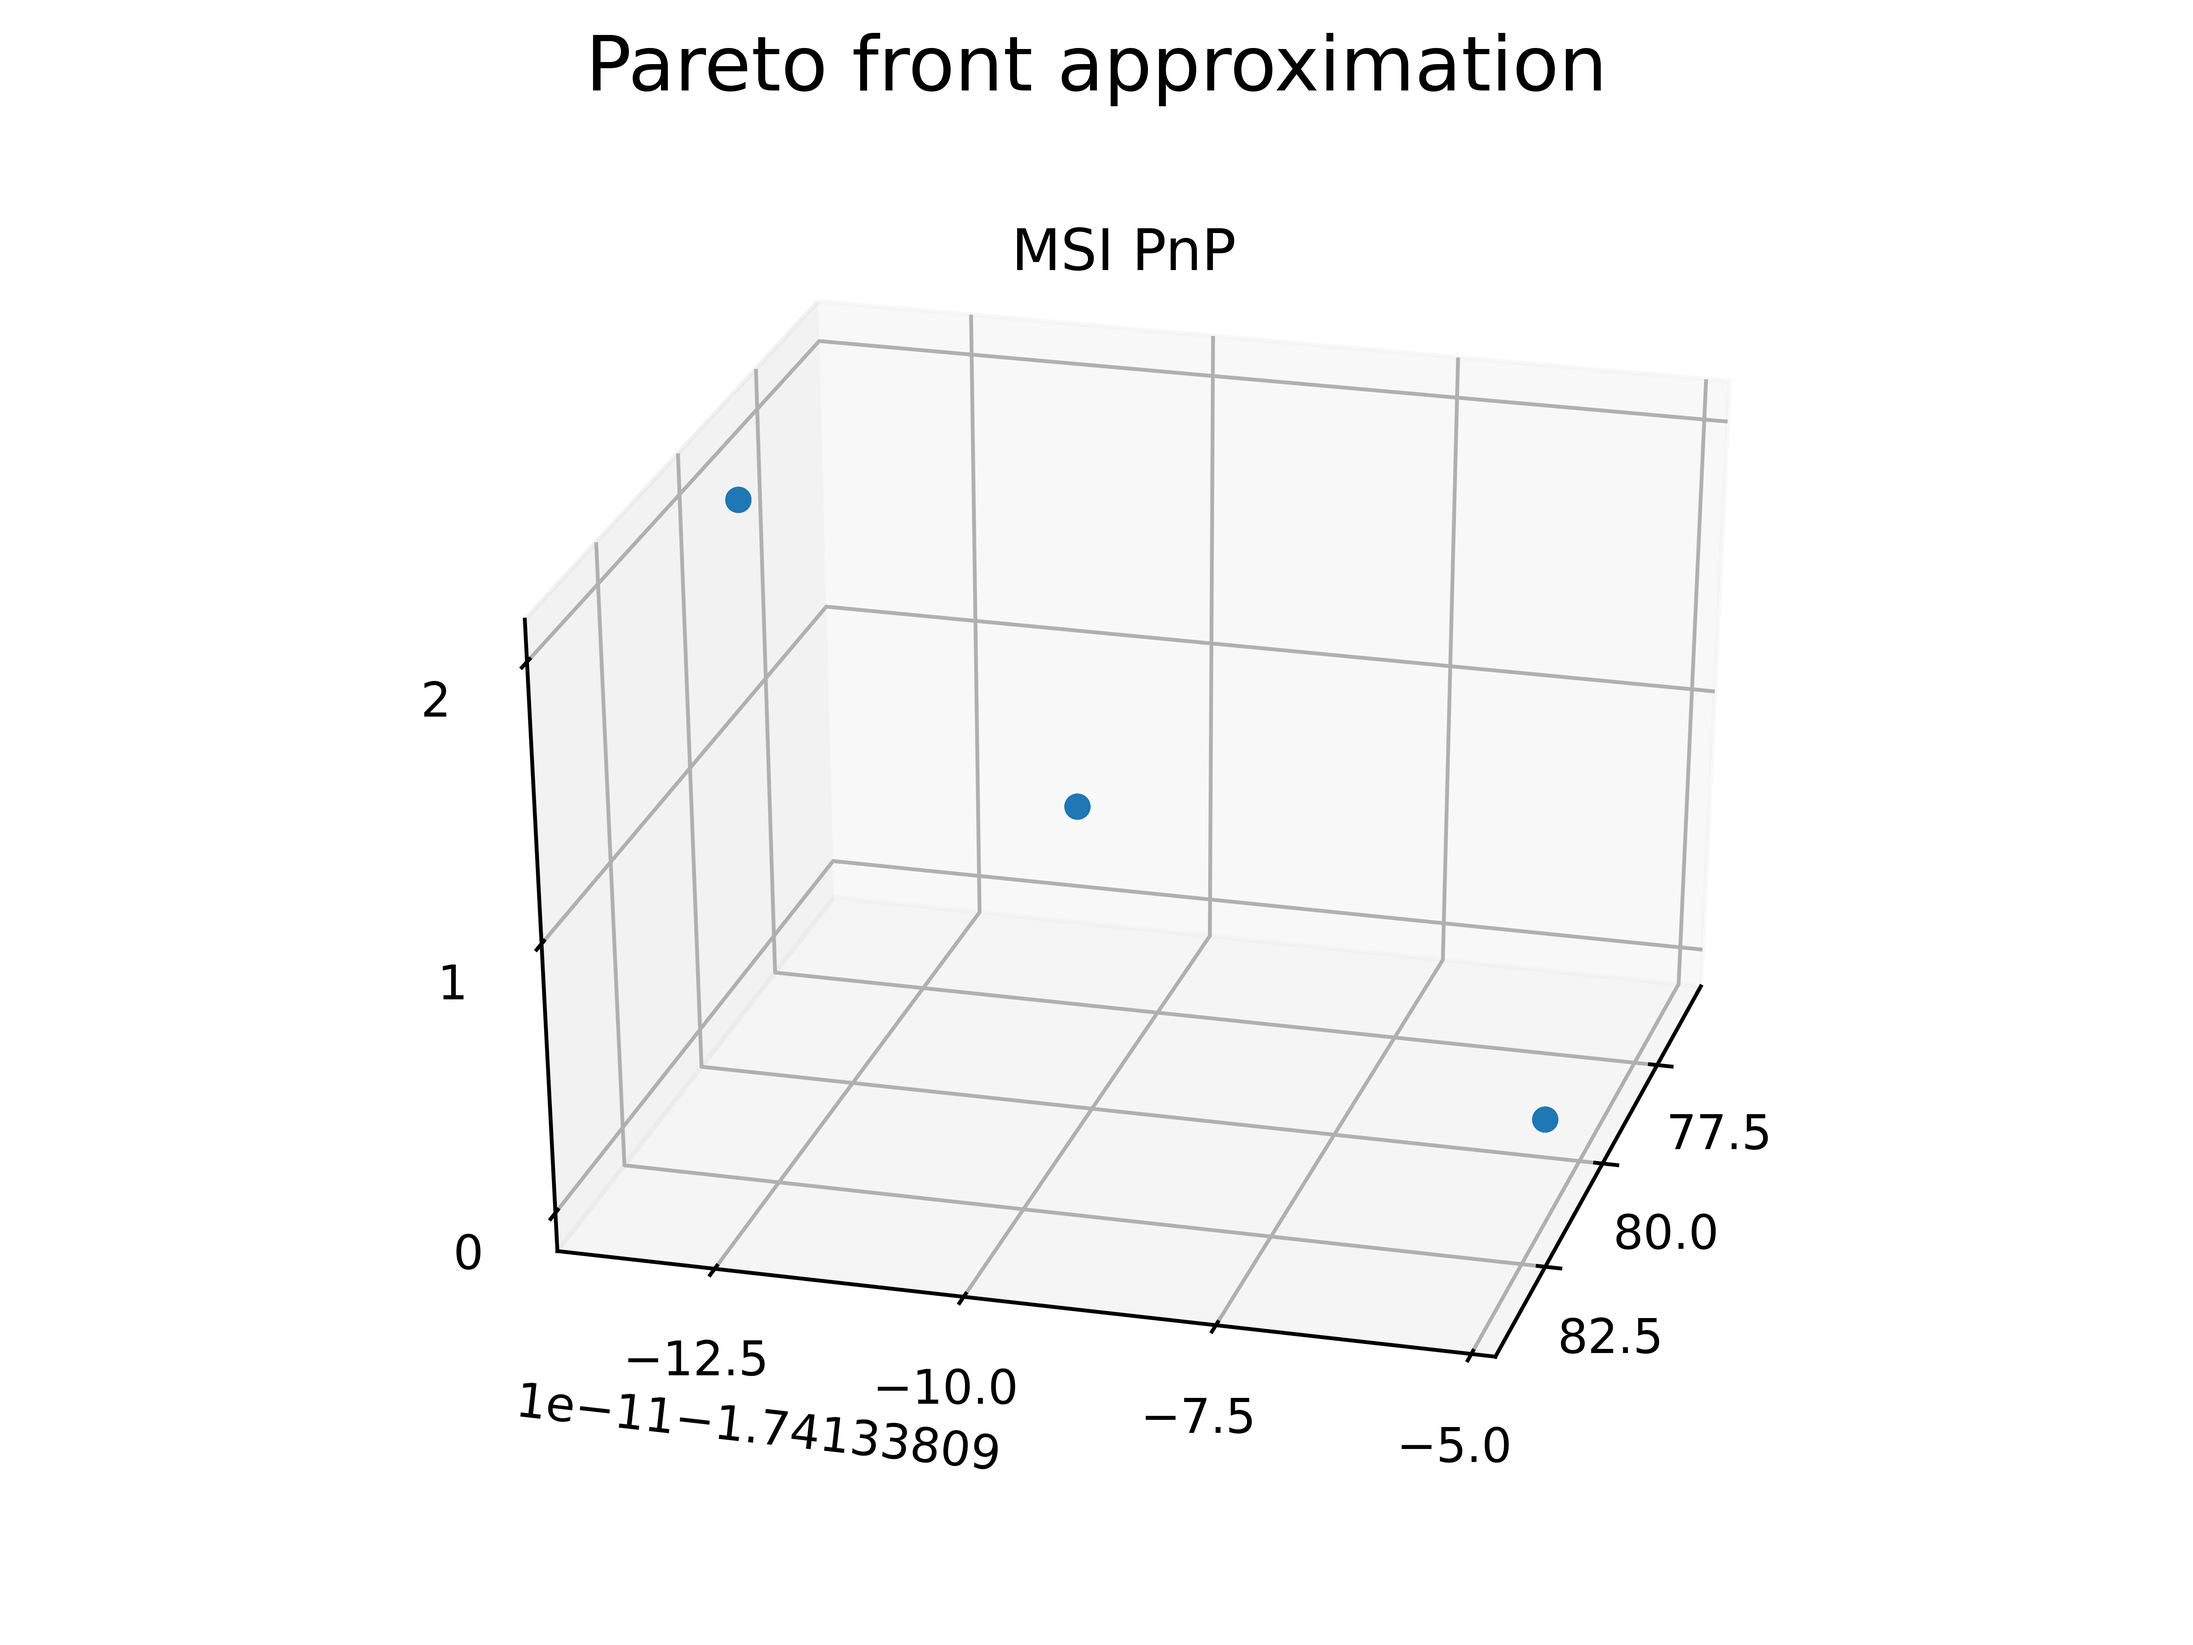
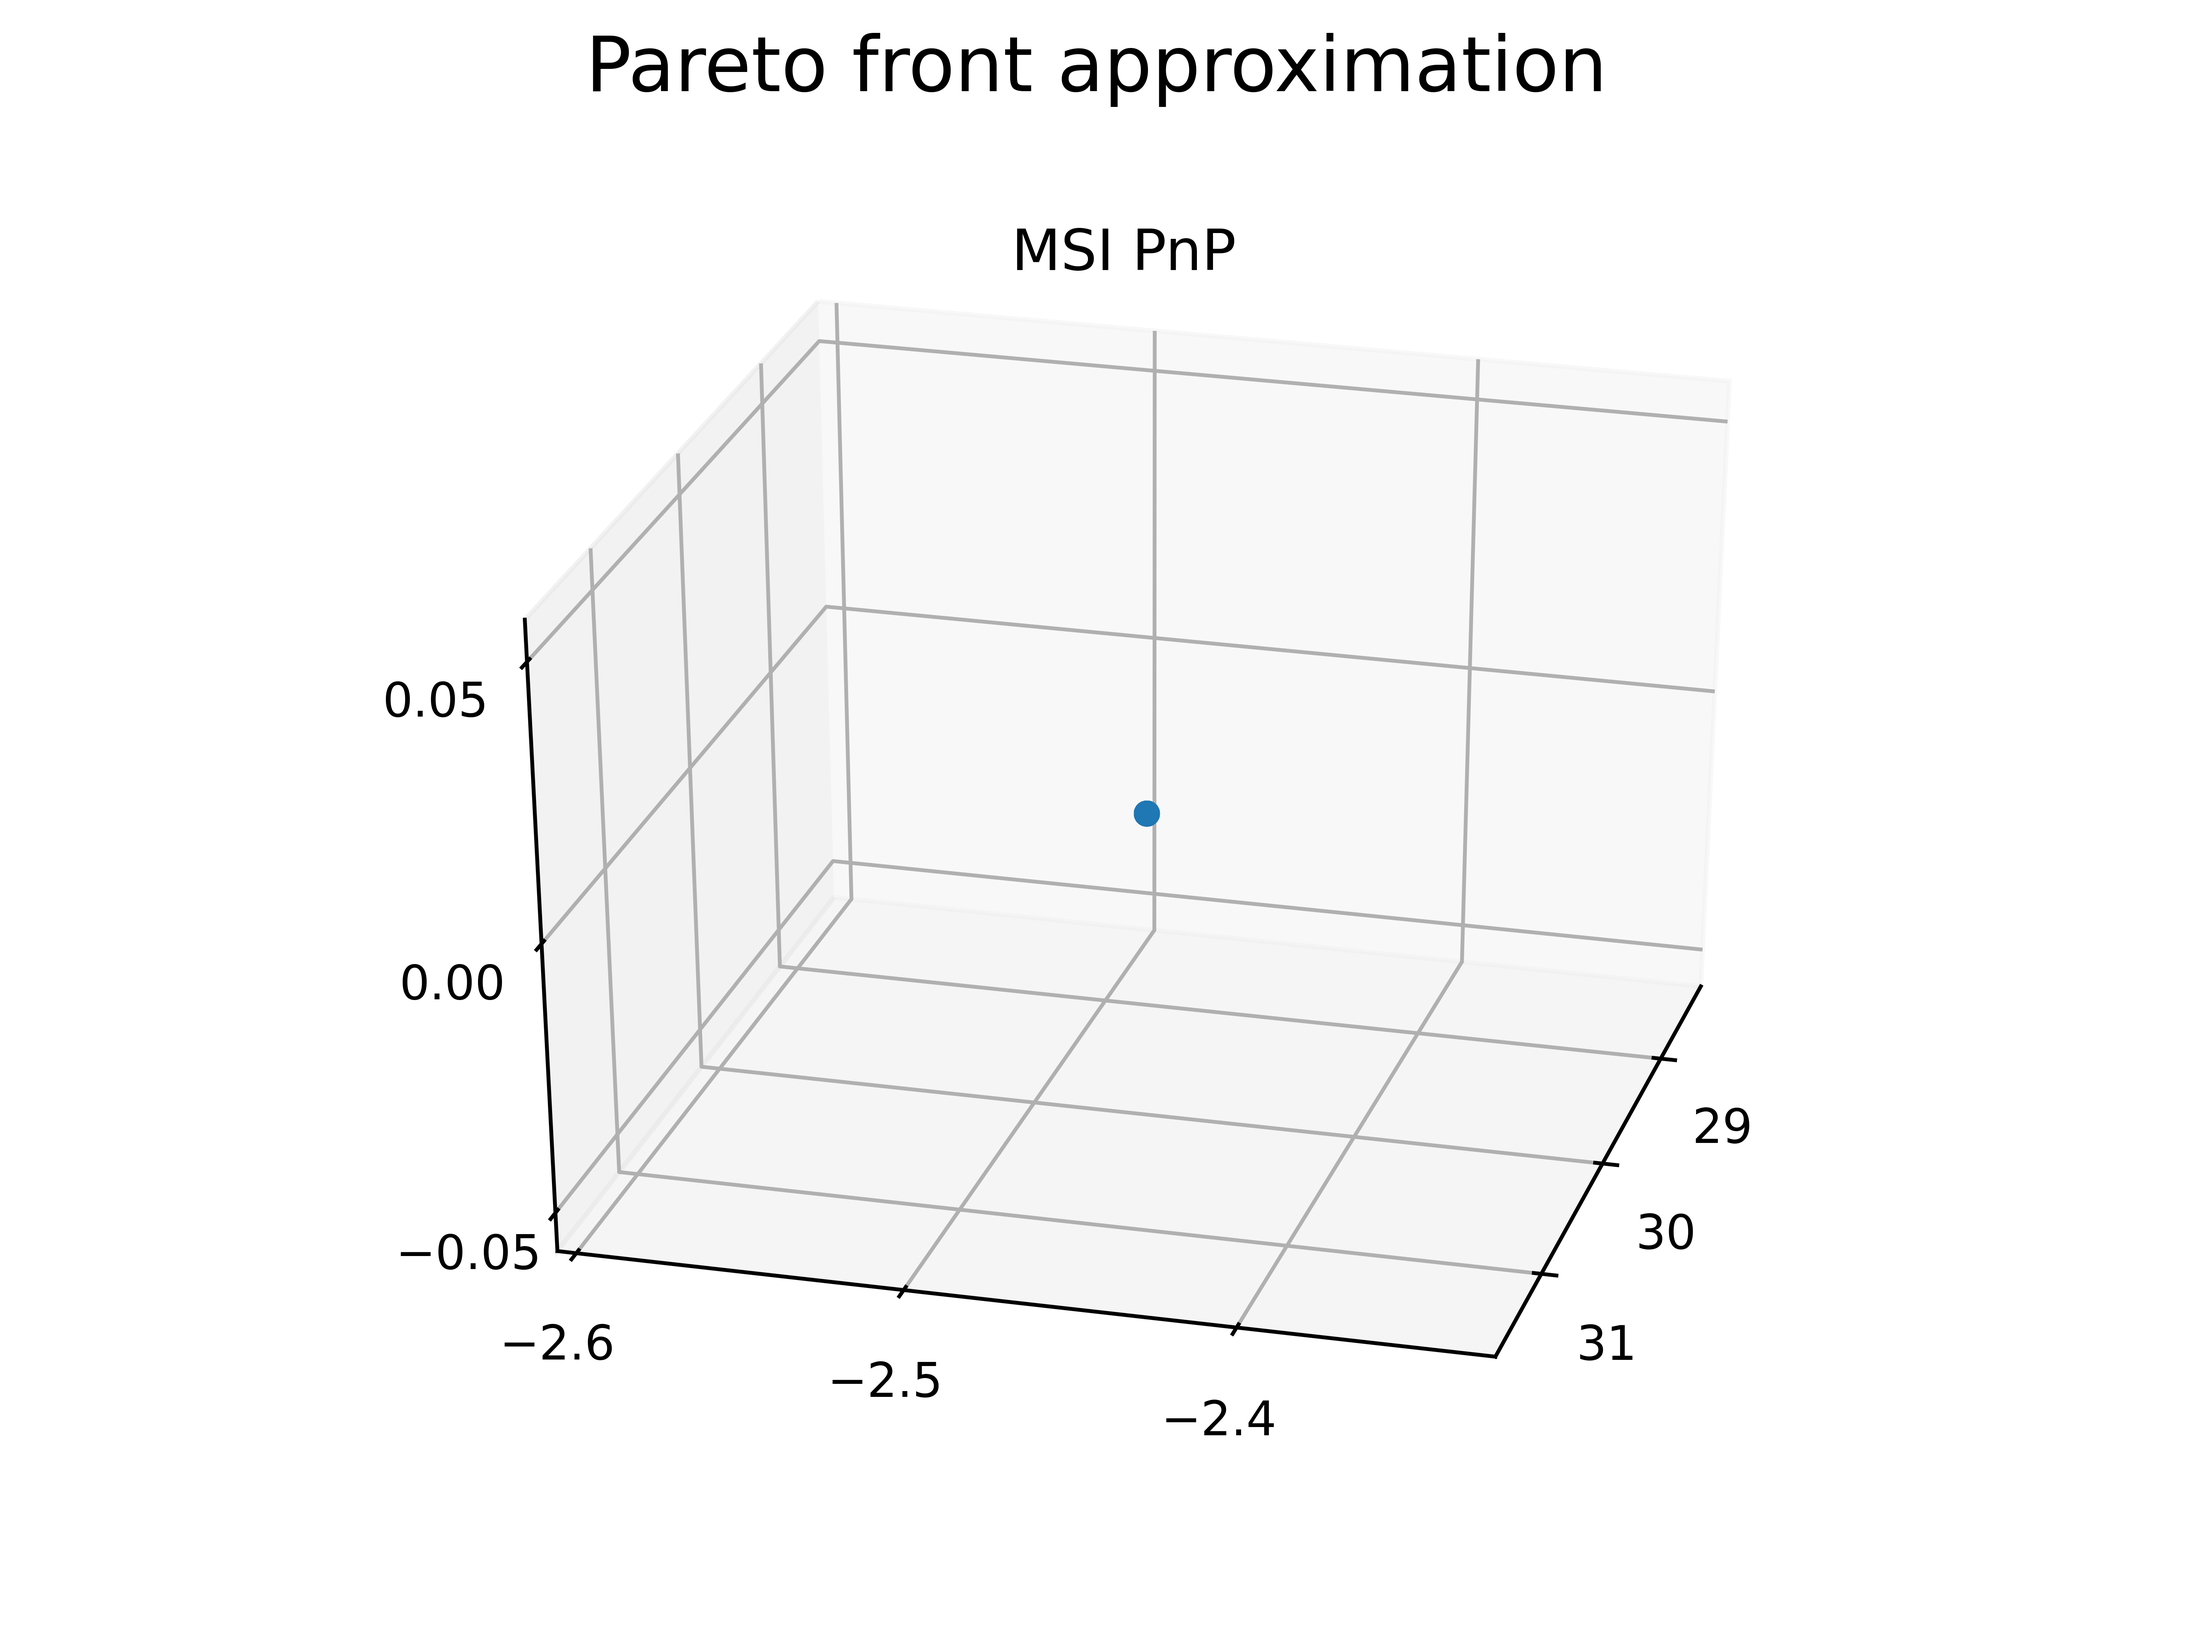
rel velocidad y rel caudal

diff --git a/decmopy/decmo/msi/msi_main.py b/decmopy/decmo/msi/msi_main.py
@@ -1,11 +1,7 @@
 import sys, json
 
-from msi_compressor import (
-   Compressor, 
-   speeds_to_flow, 
-   speeds_to_consumption, 
-   solution_changes
-)
+from msi_compressor import Compressor
+from msi_utils import  speeds_to_flow, speeds_to_consumption, solution_changes
 from msi_problem import MSI
 from decmo_integer import DECMO
 from msi_plot import plot_front
@@ -30,13 +26,15 @@ def main(argv):
             i["max_speed"], 
             i["h_func"], 
             i["h_func_obj"], 
-            i["f_mtmto"]
+            i["f_mtmto"],
+            i["rel_velocidad_caudal"],
+            i["rel_velocidad_consumo"]
          )
          problem.add_compressor(comp)
       
       algorithm = DECMO(problem, individual_population_size=50, max_iterations=250)
       results = algorithm.run()
-      plot_front(results)
+      #plot_front(results)
 
       print(f"Algorithm: ${algorithm.get_name()}")
       print(f"Problem: ${problem.get_name()}")
@@ -50,11 +48,10 @@ def main(argv):
 
       for r in results:
          vars = [int(round(i)) for i in r.variables]
-         sol_flow = speeds_to_flow(vars)
+         sol_flow = speeds_to_flow(vars, problem.compressors)
          if (flow_obj <= sol_flow) and (vars not in final_solutions):
-            final_solutions.append(vars)
-            sol_consumption = speeds_to_consumption(vars)      
-            sol_changes = solution_changes(problem.compressors, vars)
+            sol_consumption = speeds_to_consumption(vars, problem.compressors)      
+            sol_changes = solution_changes(vars, problem.compressors)
             sol_distribution = ["%.2f" % i.avg_useful_life for i in problem.compressors]
             print(vars, \
                "| Caudal:", str(sol_flow), \
@@ -62,6 +59,7 @@ def main(argv):
                "| Cambios:", str(sol_changes), \
                "| Vida Útil Promedio:", sol_distribution \
             )             
+            final_solutions.append(vars)
             
       if len(final_solutions) == 0:
          print("No hay soluciones para el caudal objetivo " + str(flow_obj))      

diff --git a/decmopy/decmo/msi/msi_compressor.py b/decmopy/decmo/msi/msi_compressor.py
@@ -1,30 +1,7 @@
 from datetime import datetime
 from typing import List
 
-def speed_to_flow(speed: int):
-    return speed * 20
-
-def speeds_to_flow(speeds: List[int]):
-    flow = 0
-    for s in speeds:
-        flow += speed_to_flow(s)
-    return flow
-
-def speed_to_consumption(speed: int):
-    return speed * 10
-
-def speeds_to_consumption(speeds: List[int]):
-    consumption = 0
-    for s in speeds:
-        consumption += speed_to_consumption(s)
-    return consumption
-
-def solution_changes(compressors, speeds: List[int]):
-    changes = 0
-    for i, speed in enumerate(speeds):
-        if (speed != compressors[i].speed) and (speed == 0 or compressors[i].speed == 0):
-            changes += 1
-    return changes
+from msi_utils import speed_to_flow, speed_to_consumption
 
 class Compressor(object):
     """Compresor.
@@ -50,6 +27,8 @@ class Compressor(object):
         h_func: float,
         h_func_obj: float,
         f_mtmto: str,
+        rel_velocidad_caudal: List[List[float]],
+        rel_velocidad_consumo: List[List[float]],
     ):
         self.id = id
         self.variable_speed = variable_speed
@@ -59,7 +38,9 @@ class Compressor(object):
         self.h_func = h_func
         self.h_func_obj = h_func_obj
         self.f_mtmto = datetime.strptime(f_mtmto, "%d/%m/%Y")
-        self.flow = speed_to_flow(speed) # Caudal en m3 de aire que da el Compresor a una velocidad determinada.
-        self.consumption = speed_to_consumption(speed) # Consumo del compresor (Kw/m3 aire).
+        self.rel_velocidad_caudal = rel_velocidad_caudal
+        self.rel_velocidad_consumo = rel_velocidad_consumo
+
+        self.flow = speed_to_flow(speed, rel_velocidad_caudal) # Caudal en m3 de aire que da el Compresor a una velocidad determinada.
+        self.consumption = speed_to_consumption(speed, rel_velocidad_consumo) # Consumo del compresor (Kw/m3 aire).
         self.avg_useful_life = (h_func_obj - h_func) / ((self.f_mtmto - datetime.now()).total_seconds() / 3600)
-        

diff --git a/decmopy/decmo/msi/msi_problem.py b/decmopy/decmo/msi/msi_problem.py
@@ -3,7 +3,8 @@ import random
 from jmetal.core.problem import IntegerProblem
 from jmetal.core.solution import IntegerSolution
 
-from msi_compressor import Compressor, speed_to_flow, speed_to_consumption
+from msi_compressor import Compressor
+from msi_utils import speeds_to_flow, speeds_to_consumption, solution_changes
 
 class MSI(IntegerProblem):
    def __init__(self, flow_obj: float):
@@ -22,10 +23,7 @@ class MSI(IntegerProblem):
       variables = [int(round(i)) for i in solution.variables]
 
       # obj1: Minimizar la suma de los consumos de todos los compresores
-      consumption = 0
-      for speed in variables:
-         if speed != 0:
-            consumption += speed_to_consumption(speed)
+      consumption = speeds_to_consumption(variables, self.compressors)
       solution.objectives[0] = consumption
 
       # obj2: Maximizar la distribución de horas de funcionamiento 
@@ -39,10 +37,7 @@ class MSI(IntegerProblem):
          solution.objectives[1] = -1 * sum(avg_useful_life) / len(avg_useful_life)
 
       # obj3: Minimizar Cambios desde la solucion anterior (encendido/apagado)
-      changes = 0
-      for i, speed in enumerate(variables):
-         if (speed != self.compressors[i].speed) and (speed == 0 or self.compressors[i].speed == 0):
-            changes += 1
+      changes = solution_changes(variables, self.compressors)
       solution.objectives[2] = changes  
 
       self.__evaluate_constrains(solution)
@@ -56,7 +51,7 @@ class MSI(IntegerProblem):
       '''
       variables = [int(round(i)) for i in solution.variables]
       # constrain 1: caudal igual o superior al indicado
-      solution_flow = sum([speed_to_flow(i) for i in variables])
+      solution_flow = speeds_to_flow(variables, self.compressors)
       flow_diff = solution_flow - self.flow_obj
       solution.constraints[0] = flow_diff
 

diff --git a/decmopy/decmo/msi/msi_utils.py b/decmopy/decmo/msi/msi_utils.py
@@ -1,0 +1,36 @@
+from typing import List
+
+def speed_to_flow(speed: int, rels: List[List[float]]):
+    flow = 0
+    for r in rels:
+        if r[0] == speed:
+            flow += r[1]
+            break
+    return flow 
+
+def speeds_to_flow(speeds: List[int], compressors):
+    flow = 0
+    for i, s in enumerate(speeds):
+        flow += speed_to_flow(s, compressors[i].rel_velocidad_caudal)
+    return flow
+
+def speed_to_consumption(speed: int, rels: List[List[float]]):
+    consumption = 0
+    for r in rels:
+        if r[0] == speed:
+            consumption += r[1]
+            break
+    return consumption 
+
+def speeds_to_consumption(speeds: List[int], compressors):
+    consumption = 0
+    for i, s in enumerate(speeds):
+        consumption += speed_to_consumption(s, compressors[i].rel_velocidad_consumo)
+    return consumption
+
+def solution_changes(speeds: List[int], compressors):
+    changes = 0
+    for i, speed in enumerate(speeds):
+        if (speed != compressors[i].speed) and (speed == 0 or compressors[i].speed == 0):
+            changes += 1
+    return changes
